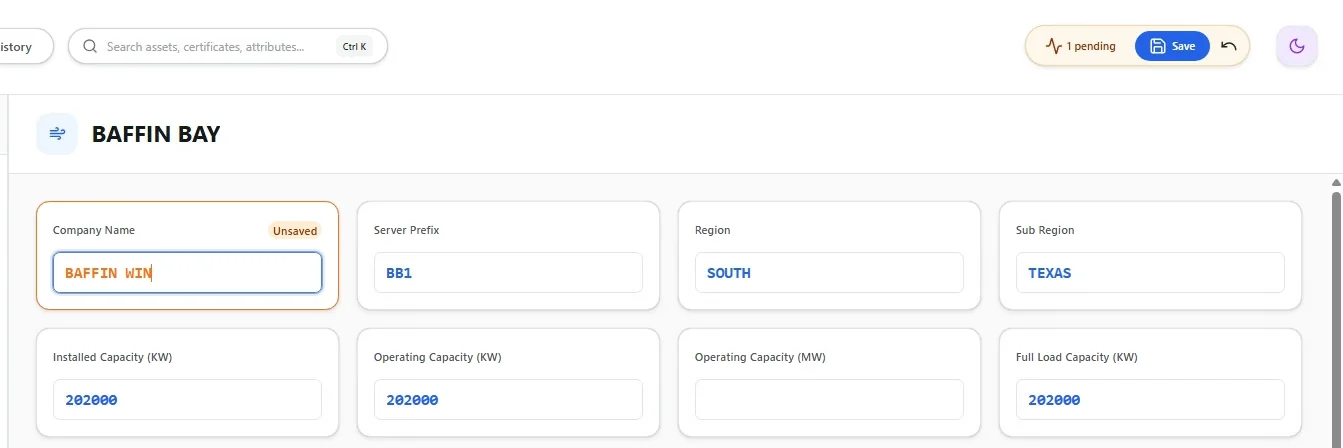
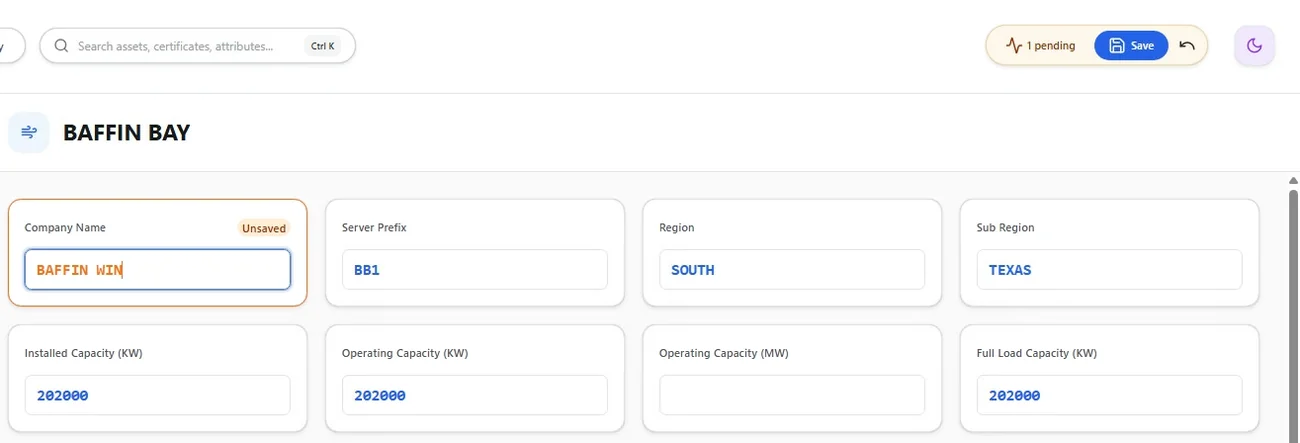
Round 4: full-width case heroes, outcome words on cards, stacked close-ups on phones
- Case hero: title on top, a straight-on screenshot of the work rising out of the card
- Home cards for MyChart and InTune lead with Prototyped instead of a role
- Alarms close-ups stack on phones; MEW2 close-up no longer clips a stray word
- Alarms takeaway names a design lesson instead of repeating the overview

Claude-Session: https://claude.ai/code/session_01D3fg2f5xLSdgKP5tmCPjaK

diff --git a/index.html b/index.html
@@ -139,14 +139,14 @@
           <span class="mono">Nº 03 · University of Tennessee · 2022</span>
           <div><div class="flavor">MyChart</div><h3>Simplifying a patient portal for the older users who rely on it most</h3></div>
           <div class="thumb"><img src="img/mychart_0.webp" alt="User persona for Mark de la Cruz, a 68-year-old retired engineer" loading="lazy" width="1600" height="900" decoding="async"></div>
-          <div class="result"><strong>Lead designer</strong><span>interviews, persona and a high-fidelity Figma prototype</span></div>
+          <div class="result"><strong>Prototyped</strong><span>as lead designer: interviews, persona, hi-fi Figma</span></div>
           <div class="v-foot"><div class="tags"><span>UX research</span><span>Interviews</span></div><b>Open the case →</b></div>
         </a>
         <a class="variety v-green" href="#intune">
           <span class="mono">Nº 04 · University of Tennessee · 2023</span>
           <div><div class="flavor">InTune</div><h3>A music social app for listeners who want more than a yearly Wrapped</h3></div>
           <div class="thumb"><img src="img/intune_1.webp" alt="Hand-drawn wireframes for InTune's community, creative and analytics screens" loading="lazy" width="512" height="320" decoding="async"></div>
-          <div class="result"><strong>Lead designer</strong><span>market research, wireframes and a high-fidelity prototype</span></div>
+          <div class="result"><strong>Prototyped</strong><span>as lead designer, now becoming a real app</span></div>
           <div class="v-foot"><div class="tags"><span>Market research</span><span>Interviews</span></div><b>Open the case →</b></div>
         </a>
       </div>
@@ -330,7 +330,7 @@
             <div><h3>Light and dark mode</h3><p>A toggle so people can match the interface to their environment and preference.</p></div>
           </div>
           <div class="closeups">
-            <figure><button class="shot" type="button"><img src="img/mew2_detail_pending.webp" alt="Close-up: the Company Name field outlined in orange with an Unsaved tag, and a 1 pending badge beside Save in the header" loading="lazy" width="1343" height="448" decoding="async"></button><figcaption><b>Close-up.</b> An edited field turns orange and says Unsaved, while the header counts what's waiting to be saved.</figcaption></figure>
+            <figure><button class="shot" type="button"><img src="img/mew2_detail_pending.webp" alt="Close-up: the Company Name field outlined in orange with an Unsaved tag, and a 1 pending badge beside Save in the header" loading="lazy" width="1300" height="443" decoding="async"></button><figcaption><b>Close-up.</b> An edited field turns orange and says Unsaved, while the header counts what's waiting to be saved.</figcaption></figure>
           </div>
         </section>
 
@@ -541,7 +541,7 @@
         <section class="case-sec" data-toc="Takeaways">
           <h2>Takeaways</h2>
           <div class="takeaway">
-            <div class="takeaway-text"><div class="prose"><p>This was the first time I carried a project almost entirely on my own. I was out of practice with programming at first, but it came back faster than I expected. I'm grateful Godfrey found a project that matched my interests and gave me free rein with it.</p></div><dl class="reflect"><div><dt class="mono">What worked</dt><dd>Moving the rebuild from Angular to React, which I knew best, let one person design and ship the whole thing.</dd></div><div><dt class="mono">What I'd change</dt><dd>Keep polishing the UI. There is still room to make filtering faster on very large results.</dd></div><div><dt class="mono">What's next</dt><dd>Faster Oracle processing, so big queries come back sooner before they ever reach the table.</dd></div></dl></div>
+            <div class="takeaway-text"><div class="prose"><p>This was the first time I carried a project almost entirely on my own. I was out of practice with programming at first, but it came back faster than I expected. I'm grateful Godfrey found a project that matched my interests and gave me free rein with it.</p></div><dl class="reflect"><div><dt class="mono">What worked</dt><dd>Talking to the people who use it turned a vague brief, "make it modern", into three concrete fixes: speed, sorting and filtering, and explaining the data.</dd></div><div><dt class="mono">What I'd change</dt><dd>Keep polishing the UI. There is still room to make filtering faster on very large results.</dd></div><div><dt class="mono">What's next</dt><dd>Faster Oracle processing, so big queries come back sooner before they ever reach the table.</dd></div></dl></div>
             <div class="printer" aria-label="Takeaways receipt">
           <div class="slot" aria-hidden="true"></div>
           <div class="receipt-clip"><div class="receipt-wrap"><div class="receipt">

diff --git a/styles.css b/styles.css
@@ -178,16 +178,19 @@ nav{display:flex;align-items:center;justify-content:space-between;gap:16px;paddi
 .case-hero .summary{font-size:19px;max-width:56ch;opacity:.9}
 .case-hero .hero-shot{margin-top:14px}
 /* case hero: copy beside a framed screenshot of the shipped work */
-.case-hero{grid-template-columns:minmax(0,.85fr) minmax(0,1.3fr);align-items:center;gap:clamp(24px,4vw,48px)}
+.case-hero{grid-template-columns:minmax(0,1fr);gap:clamp(28px,4vw,44px);padding-bottom:0;overflow:hidden}
+.case-hero-text{max-width:860px}
 .case-hero-text{display:grid;gap:18px;align-content:center;min-width:0}
 .eyebrow{display:grid;gap:4px}
 .case-hero h1{overflow-wrap:break-word;hyphens:manual}
-.hero-shot.lowres{max-width:512px;justify-self:center;width:100%}
-.case-hero .flavor{font-size:clamp(52px,6.2vw,92px)}
-.case-hero h1{font-size:clamp(24px,2.6vw,34px)}
+.hero-shot.lowres{max-width:560px}
+.case-hero .flavor{font-size:clamp(56px,8.4vw,112px)}
+.case-hero h1{font-size:clamp(24px,3vw,38px);max-width:26ch}
 .case-hero .summary{font-size:18px}
-.hero-shot{margin:0;transform:rotate(1.2deg);transition:transform .3s ease}
-.hero-shot:hover{transform:rotate(0) translateY(-4px)}
+.hero-shot{margin:0 auto -2px;width:100%;max-width:1040px;transition:transform .3s ease}
+.hero-shot:hover{transform:translateY(-4px)}
+.hero-shot .shot.browser{border-radius:14px 14px 0 0;max-height:min(46vw,500px)}
+.hero-shot .shot.browser img{object-fit:cover;object-position:top left}
 .shot.browser{border:0;border-radius:12px;padding-top:26px;position:relative;background:#fff linear-gradient(#F1ECE8,#F1ECE8) top/100% 26px no-repeat;box-shadow:0 30px 50px -24px rgba(31,42,85,.45),0 0 0 1.5px rgba(31,42,85,.85)}
 .shot.browser::before{content:"";position:absolute;top:9px;left:12px;width:8px;height:8px;border-radius:50%;background:#E2574C;box-shadow:13px 0 0 #F2C14E,26px 0 0 #4CB884}
 
@@ -545,11 +548,10 @@ figcaption{font-size:14px;color:var(--muted);line-height:1.45}
 
 @media (max-width:900px){
   .case-hero{grid-template-columns:minmax(0,1fr)}
-  .hero-shot{transform:none}
   .tldr-cols,.stats{grid-template-columns:minmax(0,1fr)}
   .tldr{gap:18px}
-  .closeups.tall{grid-template-columns:repeat(2,minmax(0,1fr))}
-  .closeups.tall img{width:100%;max-height:none}
+  .closeups.tall{grid-template-columns:minmax(0,1fr);justify-items:start}
+  .closeups.tall img{max-height:none;max-width:100%}
   .tldr-cols{gap:14px}
   .stats{gap:12px;padding-top:16px}
   .stats > div{grid-template-columns:minmax(96px,auto) minmax(0,1fr);align-items:center;gap:14px}
